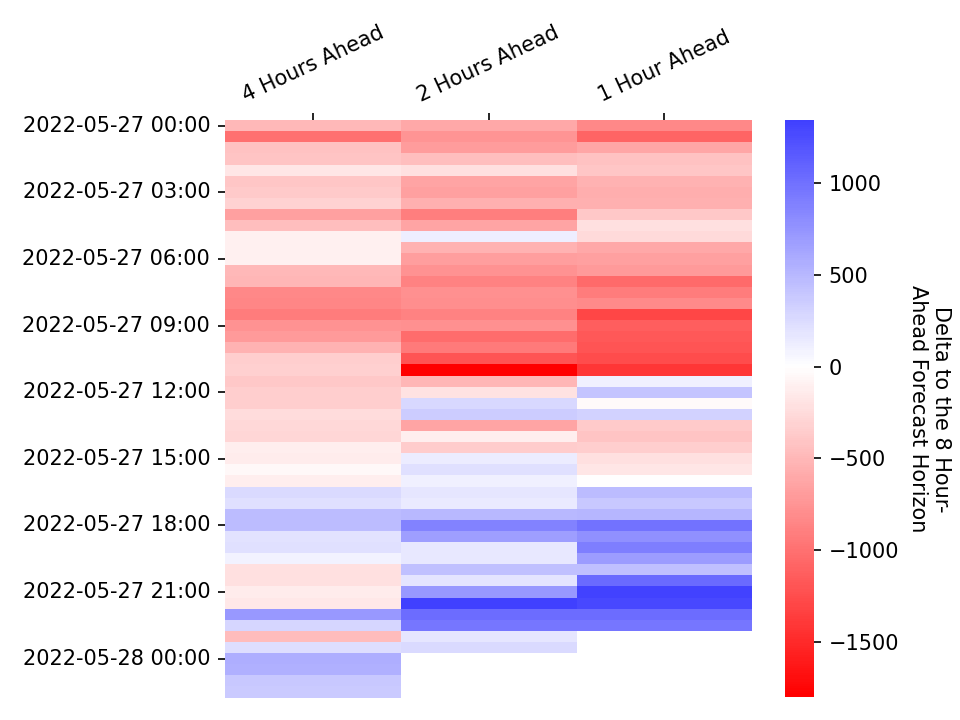
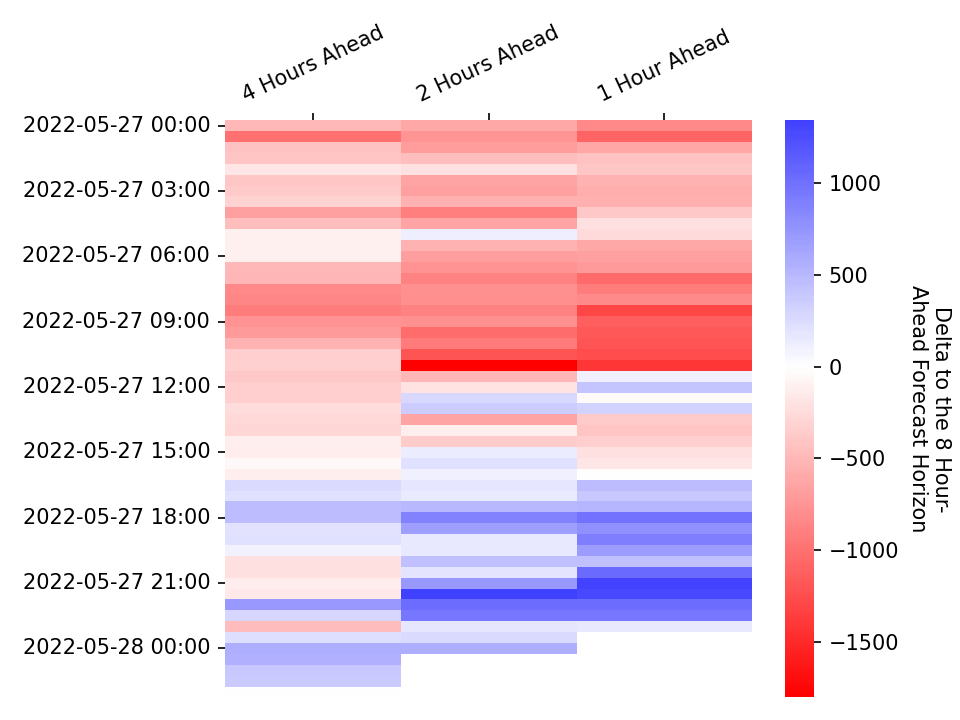
Apply automatic changes

diff --git a/docs/js/map.js b/docs/js/map.js
@@ -144,7 +144,7 @@ document.addEventListener("DOMContentLoaded", function() {
                 follow: 1
             });
             mymap.addControl(sliderControl);
-            sliderControl.startSlider(333);
+            sliderControl.startSlider(334);
         });
     });
 });

diff --git a/docs/visualisations.md b/docs/visualisations.md
@@ -60,7 +60,7 @@ In each settlement period the system operator publishes the de-rated margin fore
 * At 1200 hours on each calendar day for all Settlement Periods for which Gate Closure has not yet passed and which occur within the current Operational Day or the following Operational Day; and
 * At eight, four, two and one hour(s) prior to the beginning of the Settlement Period to which the De-Rated Margin Forecast relates.
 
-These figures will be updated on an hourly basis, the last update was at: 2022-05-27 21:10
+These figures will be updated on an hourly basis, the last update was at: 2022-05-27 21:40
 
 <br>
 
@@ -83,7 +83,7 @@ The following heatmap shows how the more recent de-rated margin forecasts deviat
 
 ### Power Output Map
 
-Last Updated: 2022-05-27 21:10
+Last Updated: 2022-05-27 21:40
 
 This map shows the power output of individual plants connected to the transmission grid as stated in their most recent Physical Notifications. This data can be retrieved through the *PHYBMDATA* BMRS stream, the out-turn data can be viewed one week later through the *B1610* stream. The scrollbar at the top of the map can be used to view how the generation sources have changed their output over the last week, the layer control can be used to toggle on/off the transmission network, and the plants themselves can be clicked to reveal additional information. The plant location data used in this map has been taking from a sister project, [the Power Station Dictionary](https://osuked.github.io/Power-Station-Dictionary/), which aims to link between data about individual power plants.
 
